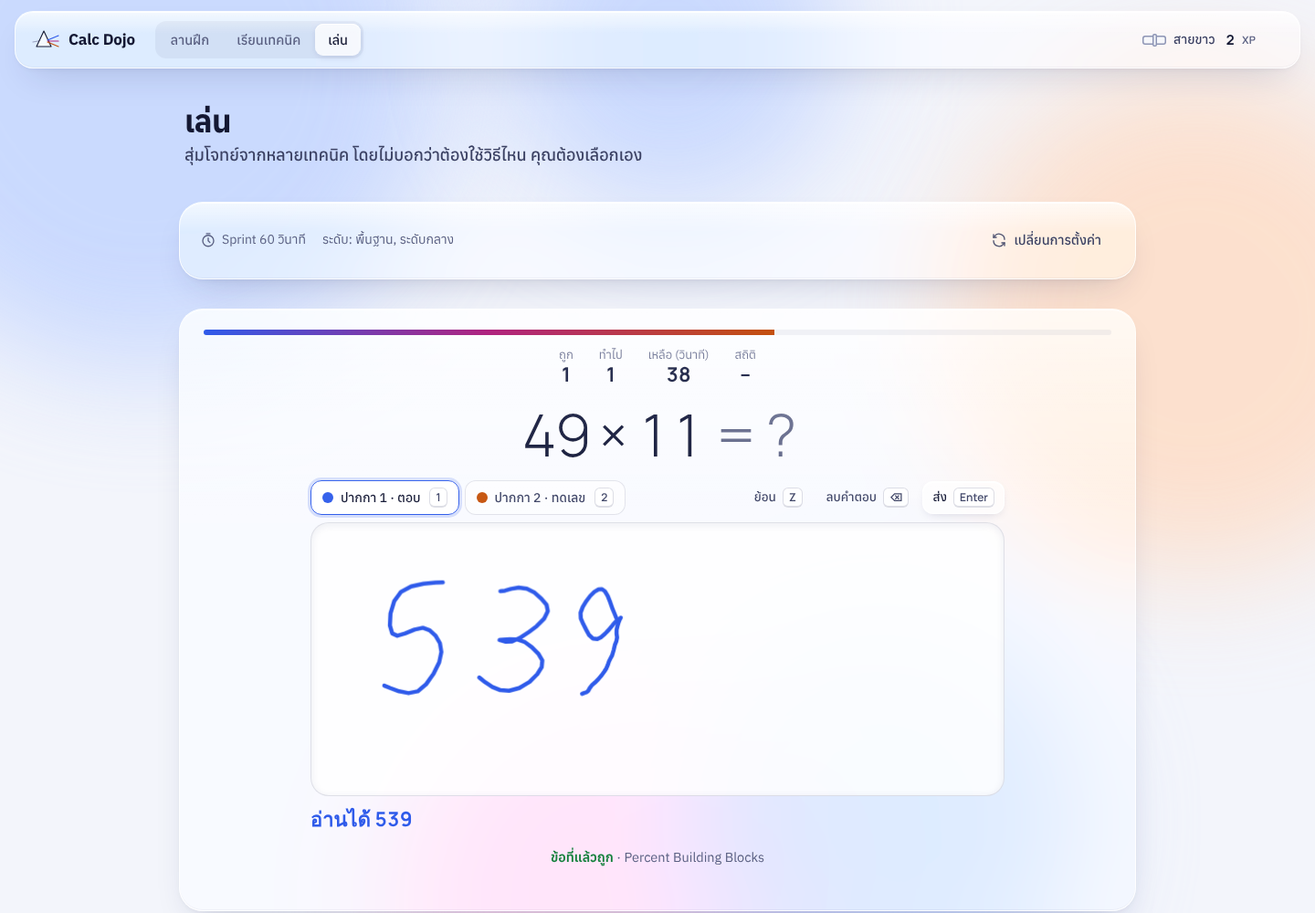
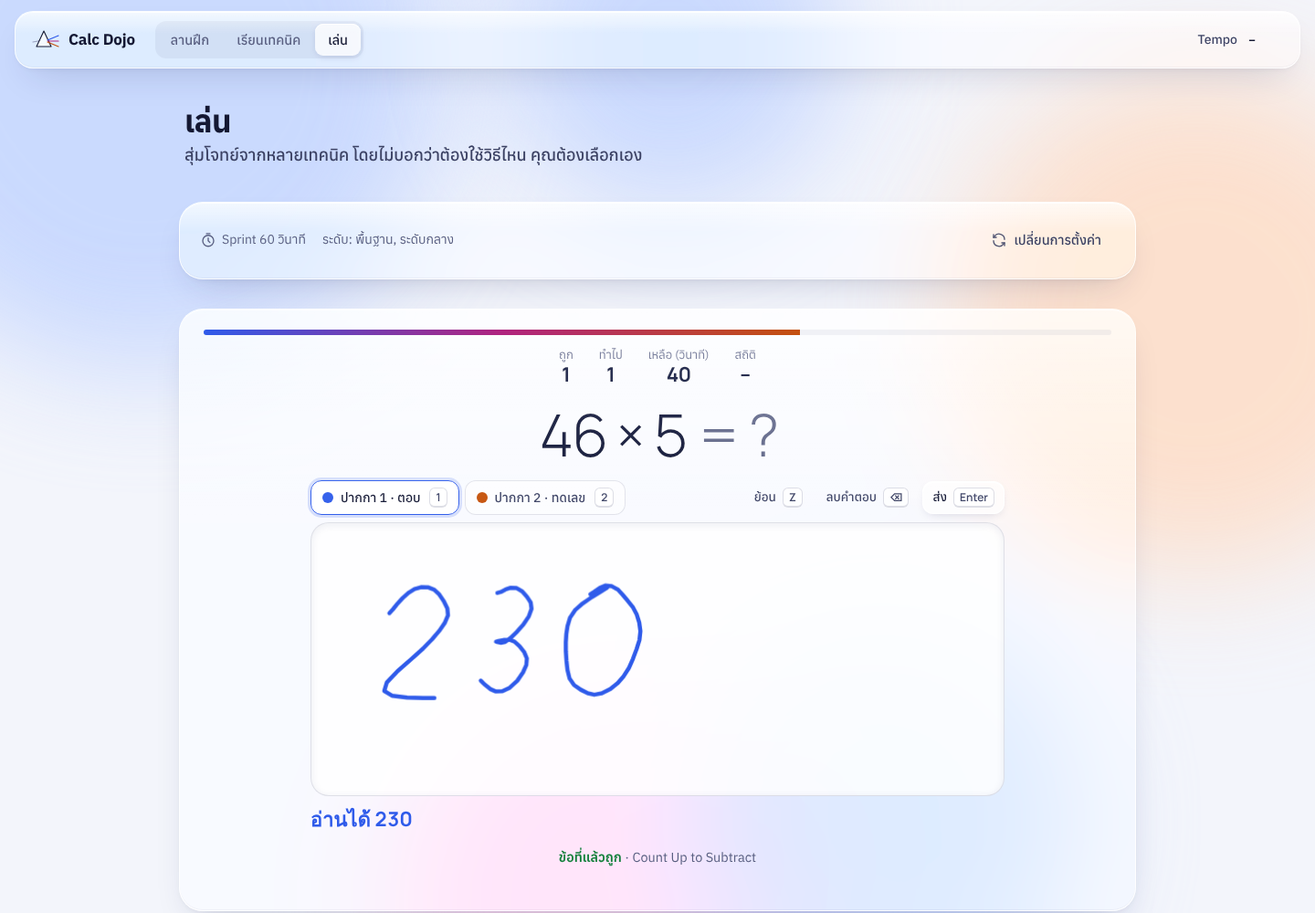
Replace belts/XP/exam with Tempo (speed rating)
Tempo = weighted correct answers per minute in Sprint, averaged over last 5 runs.
Adds play_runs.tempo column; docs updated.

Claude-Session: https://claude.ai/code/session_01S2Gq2VVHPBgjdEWqRrGpj5

diff --git a/js/store.js b/js/store.js
@@ -1,12 +1,12 @@
-/* ============ Calc Dojo store: progress, daily stats, runs, XP, belts, cloud sync, login ============ */
+/* ============ Calc Dojo store: progress, daily stats, runs, Tempo, cloud sync, login ============ */
 /* Needs core.js first (T, byId, MASTER, I, f). Pages may define: window.onData() -> re-render after data changes. */
 
 /* ---------- local storage ---------- */
 const KEY='mm-lab-v1', DKEY='mm-dojo-v1', PKEY='mm-play-v1';
 let S={};      // per technique: {c,w,s,b}
-let D={days:{},runs:[],belt:0}; // days: {'YYYY-MM-DD':{a,c}}, runs: finished plays, belt: highest belt passed (0 = white)
+let D={days:{},runs:[]}; // days: {'YYYY-MM-DD':{a,c}}, runs: finished plays {cid,t,mode,sc,tot,secs,bs,tp}
 try{S=JSON.parse(localStorage.getItem(KEY)||'{}')||{}}catch(e){S={}}
-try{const d=JSON.parse(localStorage.getItem(DKEY)||'null');if(d&&d.days)D={days:d.days,runs:d.runs||[],belt:d.belt|0}}catch(e){}
+try{const d=JSON.parse(localStorage.getItem(DKEY)||'null');if(d&&d.days)D={days:d.days,runs:d.runs||[]}}catch(e){}
 const save=()=>{try{localStorage.setItem(KEY,JSON.stringify(S))}catch(e){}};
 const saveD=()=>{try{localStorage.setItem(DKEY,JSON.stringify(D))}catch(e){}};
 const st=id=>S[id]||(S[id]={c:0,w:0,s:0,b:0});
@@ -25,26 +25,19 @@ const addDays=(d,n)=>{const x=new Date(d.getFullYear(),d.getMonth(),d.getDate())
 const TH_M=['ม.ค.','ก.พ.','มี.ค.','เม.ย.','พ.ค.','มิ.ย.','ก.ค.','ส.ค.','ก.ย.','ต.ค.','พ.ย.','ธ.ค.'];
 const thDate=k=>{const d=fromKey(k);return `${d.getDate()} ${TH_M[d.getMonth()]}`};
 
-/* ---------- XP + belts ---------- */
-/* XP is derived, not stored: each correct answer is worth 1 / 2 / 3 XP by technique level.
-   That means it follows the per-technique counts that already sync. */
-const XPW=[1,2,3];
-const xp=()=>T.reduce((a,t)=>a+st(t.id).c*XPW[t.lv],0);
-/* Belt colours mean belt only. Unlock XP and exam targets are first guesses, not calibrated on data. */
-const BELTS=[
-  {th:'ขาว',  col:'#f6f7fb',edge:'#8d94b4',xp:0},
-  {th:'เหลือง',col:'#e8b923',edge:'#a8830a',xp:50},
-  {th:'เขียว',  col:'#2e9e5b',edge:'#1f7440',xp:150},
-  {th:'น้ำเงิน',col:'#2a5fd6',edge:'#1c43a0',xp:350},
-  {th:'น้ำตาล',col:'#7d4b2a',edge:'#573219',xp:700},
-  {th:'ดำ',    col:'#141833',edge:'#000000',xp:1200}
-];
-const EXAM={need:[0,8,10,12,14,16],acc:.85,secs:60,lv:b=>b<=2?[true,false,false]:b<=4?[true,true,false]:[true,true,true]};
-const belt=()=>D.belt;
-const nextBelt=()=>D.belt<5?D.belt+1:null;
-const examOpen=()=>{const n=nextBelt();return n!==null&&xp()>=BELTS[n].xp};
-function beltProgress(){const x=xp(),n=nextBelt();if(n===null)return{x,n:null,pct:1,from:BELTS[5].xp,to:BELTS[5].xp};
-  const from=BELTS[D.belt].xp,to=BELTS[n].xp;return{x,n,from,to,pct:Math.max(0,Math.min(1,(x-from)/(to-from)))}}
+/* ---------- Tempo ---------- */
+/* Tempo = weighted correct answers per minute in a Sprint. Harder levels count more (1 / 1.5 / 2), so only answering
+   fast AND on harder problems raises it; doing lots of easy problems slowly does not.
+   Your current Tempo is the average of your last 5 Sprints. Weights and tier thresholds are first guesses, not calibrated. */
+const TW=[1,1.5,2];
+const TIERS=[{th:'อุ่นเครื่อง',at:0},{th:'ติดจังหวะ',at:5},{th:'คล่อง',at:8},{th:'ไว',at:12},{th:'เฉียบ',at:16},{th:'ทะลุ',at:20}];
+const tierIdx=v=>{let k=0;TIERS.forEach((t,i)=>{if(v>=t.at)k=i});return k};
+const runTempo=r=>r.tp!=null?r.tp:r.secs>0?+(r.sc/(r.secs/60)).toFixed(2):0;
+const tempos=()=>D.runs.filter(r=>r.mode==='sprint'&&r.tot>0).map(runTempo);
+const avg=a=>a.reduce((x,y)=>x+y,0)/a.length;
+function tempoNow(upTo){const t=tempos();const a=t.slice(Math.max(0,(upTo==null?t.length:upTo)-5),upTo==null?t.length:upTo);return a.length?{v:avg(a),n:a.length}:null}
+function tempoPrev(){const t=tempos();if(t.length<8)return null;const a=t.slice(Math.max(0,t.length-10),t.length-5);return a.length>=3?{v:avg(a),n:a.length}:null}
+const tempoBest=()=>tempos().reduce((m,v)=>Math.max(m,v),0);
 
 /* ---------- recording ---------- */
 const GOAL=30; // answers per day
@@ -53,9 +46,8 @@ function record(id,ok){
   const k=dayKey(),d=D.days[k]||(D.days[k]={a:0,c:0});d.a++;if(ok)d.c++;
   save();saveD();pushOne(id);pushDay(k);dataChanged()}
 function addRun(r){
-  const run={cid:Date.now().toString(36)+Math.random().toString(36).slice(2,7),t:new Date().toISOString(),mode:r.mode,sc:r.score,tot:r.total,secs:r.secs,bs:r.bs,belt:r.belt||0,pass:!!r.passed};
+  const run={cid:Date.now().toString(36)+Math.random().toString(36).slice(2,7),t:new Date().toISOString(),mode:r.mode,sc:r.score,tot:r.total,secs:r.secs,bs:r.bs,tp:r.secs>0?+(r.wc/(r.secs/60)).toFixed(2):0};
   D.runs.push(run);if(D.runs.length>300)D.runs=D.runs.slice(-300);
-  if(run.pass&&run.belt>D.belt)D.belt=run.belt;
   saveD();pushRuns([run]);dataChanged();return run}
 
 /* ---------- derived stats ---------- */
@@ -88,7 +80,7 @@ async function upsert(table,rows,conflict){
   catch(e){setSync('error');return false}}
 const techRow=id=>{const s=st(id);return{user_id:user.id,technique_id:id,correct:s.c,wrong:s.w,streak:s.s,best_streak:s.b,updated_at:new Date().toISOString()}};
 const dayRow=k=>({user_id:user.id,day:k,attempts:D.days[k].a,correct:D.days[k].c,updated_at:new Date().toISOString()});
-const runRow=r=>({user_id:user.id,client_id:r.cid,played_at:r.t,mode:r.mode,score:r.sc,total:r.tot,secs:r.secs|0,best_streak:r.bs|0,belt:r.belt|0,passed:!!r.pass});
+const runRow=r=>({user_id:user.id,client_id:r.cid,played_at:r.t,mode:r.mode,score:r.sc,total:r.tot,secs:r.secs|0,best_streak:r.bs|0,belt:0,passed:false,tempo:r.tp==null?null:r.tp});
 function pushOne(id){later('t'+id,()=>upsert('technique_progress',[techRow(id)],'user_id,technique_id'))}
 function pushDay(k){later('d'+k,()=>D.days[k]&&upsert('daily_stats',[dayRow(k)],'user_id,day'))}
 function pushRuns(rs){if(sb&&user)upsert('play_runs',rs.map(runRow),'user_id,client_id')}
@@ -99,21 +91,20 @@ async function flushAll(){
   const c=await upsert('play_runs',D.runs.map(runRow),'user_id,client_id');
   setSync(a&&b&&c?'ok':'error');return a&&b&&c}
 /* merge rules: per technique and per day the side with more attempts wins its counts (best streak = max);
-   runs are a union by client id; belt = highest passed on either side. */
+   runs are a union by client id. */
 async function pullAndMerge(){
   if(!sb||!user)return;setSync('syncing');
   try{
     const[t,d,r]=await Promise.all([
       sb.from('technique_progress').select('technique_id,correct,wrong,streak,best_streak'),
       sb.from('daily_stats').select('day,attempts,correct'),
-      sb.from('play_runs').select('client_id,played_at,mode,score,total,secs,best_streak,belt,passed').order('played_at',{ascending:false}).limit(300)]);
+      sb.from('play_runs').select('client_id,played_at,mode,score,total,secs,best_streak,tempo').order('played_at',{ascending:false}).limit(300)]);
     if(t.error||d.error||r.error){setSync('error');return}
     (t.data||[]).forEach(x=>{if(!byId[x.technique_id])return;const l=st(x.technique_id);
       if(x.correct+x.wrong>l.c+l.w){l.c=x.correct;l.w=x.wrong;l.s=x.streak}l.b=Math.max(l.b,x.best_streak)});
     (d.data||[]).forEach(x=>{const k=String(x.day).slice(0,10),l=D.days[k];if(!l||x.attempts>l.a)D.days[k]={a:x.attempts,c:x.correct}});
     const have=new Set(D.runs.map(x=>x.cid));
-    (r.data||[]).forEach(x=>{if(!have.has(x.client_id))D.runs.push({cid:x.client_id,t:x.played_at,mode:x.mode,sc:x.score,tot:x.total,secs:x.secs,bs:x.best_streak,belt:x.belt,pass:x.passed});
-      if(x.passed&&x.belt>D.belt)D.belt=x.belt});
+    (r.data||[]).forEach(x=>{if(!have.has(x.client_id))D.runs.push({cid:x.client_id,t:x.played_at,mode:x.mode,sc:x.score,tot:x.total,secs:x.secs,bs:x.best_streak,tp:x.tempo==null?null:+x.tempo})});
     D.runs.sort((a,b)=>a.t<b.t?-1:1);if(D.runs.length>300)D.runs=D.runs.slice(-300);
     save();saveD();dataChanged();
     await flushAll();
@@ -142,7 +133,7 @@ function openDlg(kind){
   const el=document.createElement('div');el.className='scrim';el.id='scrim';
   el.innerHTML=kind==='in'
    ?`<div class="dlg glass" role="dialog" aria-modal="true" aria-labelledby="dlgT"><h2 class="dlg-t" id="dlgT">เข้าสู่ระบบ</h2>
-     <p class="dlg-s">เพื่อให้สถิติและสายตามไปทุกเครื่อง ไม่เข้าสู่ระบบก็ใช้งานได้ตามปกติ</p>
+     <p class="dlg-s">เพื่อให้สถิติและ Tempo ตามไปทุกเครื่อง ไม่เข้าสู่ระบบก็ใช้งานได้ตามปกติ</p>
      <label class="lab" for="aEmail">อีเมล</label><input class="inp" id="aEmail" type="email" autocomplete="email" inputmode="email">
      <label class="lab" for="aPass">รหัสผ่าน (อย่างน้อย 6 ตัว)</label><input class="inp" id="aPass" type="password" autocomplete="current-password">
      <div class="fb" id="aMsg" aria-live="polite"></div>
@@ -185,7 +176,7 @@ function openDlg(kind){
       const ok=await flushAll();
       if(!ok){say('ซิงก์ไม่สำเร็จ จึงยังไม่ออกจากระบบ เพื่อกันข้อมูลหาย ลองใหม่อีกครั้ง','bad');busy(false);return}
       try{await sb.auth.signOut()}catch(e){}
-      S={};D={days:{},runs:[],belt:0};save();saveD();user=null;closeDlg();renderAuth();dataChanged()};
+      S={};D={days:{},runs:[]};save();saveD();user=null;closeDlg();renderAuth();dataChanged()};
     aSync.focus();
   }
 }

diff --git a/index.html b/index.html
@@ -42,36 +42,39 @@ function readDay(k){
   const x=D.days[k];
   heatRead.innerHTML=x&&x.a?`<b>${thDate(k)}</b> · เล่น <b>${x.a}</b> ข้อ · ถูก <b>${pct(x)}%</b>`:`<b>${thDate(k)}</b> · ไม่ได้เล่น`}
 
+function lineHTML(pts,lab,aria,fmt){
+  const have=pts.filter(v=>v!==null);
+  const W=Math.max(300,Math.min(760,document.documentElement.clientWidth-130)),H=84,pad=10,n=pts.length;
+  const lo=Math.min(...have)-(Math.max(...have)-Math.min(...have)||1)*.25,hi=Math.max(...have)+(Math.max(...have)-Math.min(...have)||1)*.25;
+  const X=i=>pad+i*(W-2*pad)/Math.max(1,n-1),Y=v=>H-pad-(v-lo)/(hi-lo||1)*(H-2*pad);
+  let path='',dots='';pts.forEach((v,i)=>{if(v===null)return;path+=(path?'L':'M')+X(i).toFixed(1)+' '+Y(v).toFixed(1);dots+=`<circle cx="${X(i).toFixed(1)}" cy="${Y(v).toFixed(1)}" r="3.4" fill="#fff" stroke="#0b7f6a" stroke-width="2"/>`});
+  return `<div class="trend"><svg viewBox="0 0 ${W} ${H}" role="img" aria-label="${aria}: ${have.map(fmt).join(', ')}"><path d="${path}" fill="none" stroke="#0b7f6a" stroke-width="2.4" stroke-linejoin="round" stroke-linecap="round"/>${dots}</svg><p>${lab}</p></div>`}
 function trendHTML(){
+  const tp=tempos().slice(-20);
+  const t1=tp.length>=3?lineHTML(tp,`Tempo ของ Sprint ล่าสุด ${tp.length} รอบ จาก ${tp[0].toFixed(1)} เป็น ${tp[tp.length-1].toFixed(1)}`,'Tempo รายรอบ',v=>v.toFixed(1)):`<div class="trend"><p>กราฟ Tempo จะขึ้นเมื่อเล่น Sprint ครบ 3 รอบ</p></div>`;
   const pts=[];for(let i=7;i>=0;i--){const w=winAcc(i*7+6,i*7);pts.push(w.a>=10?w.pct:null)}
   const have=pts.filter(v=>v!==null);
-  if(have.length<2)return `<div class="trend"><p>เส้นพัฒนาการรายสัปดาห์จะขึ้นเมื่อมีอย่างน้อย 2 สัปดาห์ที่ทำครบ 10 ข้อขึ้นไป</p></div>`;
-  const lo=Math.max(0,Math.min(...have)-8),hi=Math.min(100,Math.max(...have)+8),W=Math.max(300,Math.min(760,document.documentElement.clientWidth-130)),H=84,pad=10;
-  const X=i=>pad+i*(W-2*pad)/7,Y=v=>H-pad-(v-lo)/(hi-lo||1)*(H-2*pad);
-  let path='',dots='';pts.forEach((v,i)=>{if(v===null)return;path+=(path?'L':'M')+X(i).toFixed(1)+' '+Y(v).toFixed(1);dots+=`<circle cx="${X(i).toFixed(1)}" cy="${Y(v).toFixed(1)}" r="3.4" fill="#fff" stroke="#0b7f6a" stroke-width="2"/>`});
-  const last=have[have.length-1],first=have[0];
-  return `<div class="trend"><svg viewBox="0 0 ${W} ${H}" role="img" aria-label="ความแม่นรายสัปดาห์ 8 สัปดาห์ล่าสุด: ${have.join('%, ')}%"><path d="${path}" fill="none" stroke="#0b7f6a" stroke-width="2.4" stroke-linejoin="round" stroke-linecap="round"/>${dots}</svg>
-   <p>ความแม่นรายสัปดาห์ (เฉพาะสัปดาห์ที่ทำ ≥10 ข้อ) จาก ${first}% เป็น ${last}%</p></div>`}
+  const t2=have.length>=2?lineHTML(pts,`ความแม่นรายสัปดาห์ (เฉพาะสัปดาห์ที่ทำ ≥10 ข้อ) จาก ${have[0]}% เป็น ${have[have.length-1]}%`,'ความแม่นรายสัปดาห์',v=>v+'%'):`<div class="trend"><p>เส้นความแม่นรายสัปดาห์จะขึ้นเมื่อมีอย่างน้อย 2 สัปดาห์ที่ทำครบ 10 ข้อขึ้นไป</p></div>`;
+  return t1+t2}
 
 function render(){
-  const b=belt(),nb=nextBelt(),bp=beltProgress(),t=today(),ratio=Math.min(1,t.a/GOAL),C=2*Math.PI*56;
+  const t=today(),ratio=Math.min(1,t.a/GOAL),C=2*Math.PI*56;
+  const tn=tempoNow(),tprev=tempoPrev(),dl=tn&&tprev?tn.v-tprev.v:null,ti=tn?tierIdx(tn.v):0,nt=TIERS[ti+1]||null,tp=nt&&tn?Math.max(0,Math.min(1,(tn.v-TIERS[ti].at)/(nt.at-TIERS[ti].at))):0;
   const tot=totals(),w1=winAcc(6,0),w0=winAcc(13,7),sp=sprintRuns();
   const cmp=w1.a>=10&&w0.a>=10?w1.pct-w0.pct:null;
-  const need=nb!==null?BELTS[nb].xp-bp.x:0;
   main.innerHTML=`
   <section class="hero glass" aria-labelledby="hb">
     <div>
-      <p class="eyebrow">สายของคุณ</p>
-      <h1 id="hb">สาย${BELTS[b].th}</h1>
-      <span class="band" style="--bc:${BELTS[b].col};--be:${BELTS[b].edge}" aria-hidden="true"></span>
-      ${nb!==null?`<div class="xp"><p class="xp-t"><span>${bp.x>=bp.to?`XP <b>${bp.x}</b> · ครบแล้ว พร้อมสอบ`:`XP <b>${bp.x}</b> / ${bp.to}`}</span><span>สายถัดไป: ${BELTS[nb].th}</span></p><div class="xp-bar" style="--bc:${BELTS[nb].col};--be:${BELTS[nb].edge};--w:${Math.round(bp.pct*100)}%"><i></i></div></div>`
-        :`<p class="xp-t"><span>ถึงสายดำแล้ว · XP <b>${bp.x}</b></span></p>`}
+      <p class="eyebrow">${tn?`Tempo ตอนนี้ · เฉลี่ย ${tn.n} Sprint ล่าสุด`:'Tempo'}</p>
+      <h1 id="hb">${tn?`<span class="n tempo">${tn.v.toFixed(1)}</span><small class="unit">ข้อ/นาที</small><span class="tier">${TIERS[ti].th}</span>`:'ยังไม่มี Tempo'}</h1>
+      ${tn?`<p class="delta ${dl===null?'':dl>=0?'up':'down'}">${dl===null?`สูงสุดที่เคยทำได้ ${tempoBest().toFixed(1)}`:`${dl>=0?'▲ +':'▼ −'}${Math.abs(dl).toFixed(1)} จาก 5 รอบก่อนหน้า · สูงสุด ${tempoBest().toFixed(1)}`}</p>
+      ${nt?`<div class="xp"><p class="xp-t"><span>ระดับ ${TIERS[ti].th}</span><span>ถัดไป: ${nt.th} ที่ ${nt.at}</span></p><div class="xp-bar" style="--w:${Math.round(tp*100)}%"><i></i></div></div>`:''}`
+      :'<p class="delta">เล่น Sprint 60 วินาทีรอบแรกเพื่อวัด Tempo ของคุณ</p>'}
       <div class="cta">
         <a class="btn pri go" href="play.html#sprint">${I('play')}เริ่ม Sprint 60 วินาที</a>
-        ${nb===null?'':examOpen()?`<a class="btn go" href="play.html#exam">${I('belt')}สอบสาย${BELTS[nb].th}</a>`:`<span class="btn go locked" aria-disabled="true">${I('lock')}สอบสาย${BELTS[nb].th} · อีก ${need} XP</span>`}
         <a class="btn" href="play.html#free">${I('free')}ไม่จับเวลา</a>
       </div>
-      ${nb===null?'':`<p class="cta-note">สอบสาย${BELTS[nb].th}: Sprint 60 วินาที ถูกอย่างน้อย ${EXAM.need[nb]} ข้อและแม่น ≥${Math.round(EXAM.acc*100)}% · XP ได้จากข้อที่ตอบถูก (พื้นฐาน 1 · กลาง 2 · สูง 3)</p>`}
+      <p class="cta-note">Tempo = ข้อที่ตอบถูกต่อนาทีใน Sprint ถ่วงตามระดับโจทย์ (พื้นฐาน 1 · กลาง 1.5 · สูง 2) เฉลี่ย 5 รอบล่าสุด ตอบเยอะแต่ช้า หรือเลือกแต่ข้อง่าย จะไม่ทำให้ Tempo ขึ้น</p>
     </div>
     <div class="today">
       <div class="today-l">
@@ -91,7 +94,7 @@ function render(){
   <section class="panel glass" aria-labelledby="hs">
     <div class="panel-h"><h2 id="hs">สถิติของคุณ</h2></div>
     <dl class="facts">
-      <div><dt>Sprint สูงสุด</dt><dd>${sp.length?bestSprint():'–'} <small>${sp.length?`ข้อ · ${sp.length} รอบ`:''}</small></dd></div>
+      <div><dt>Tempo สูงสุด</dt><dd>${sp.length?tempoBest().toFixed(1):'–'} <small>${sp.length?`Sprint สูงสุด ${bestSprint()} ข้อ · ${sp.length} รอบ`:''}</small></dd></div>
       <div><dt>ถูกติดกันสูงสุด</dt><dd>${D.runs.length?bestRunStreak():'–'} <small>${D.runs.length?'ข้อในรอบเดียว':''}</small></dd></div>
       <div><dt>ตอบทั้งหมด</dt><dd>${tot.a} <small>${tot.a?`ข้อ · ถูก ${Math.round(100*tot.c/tot.a)}%`:''}</small></dd></div>
       <div><dt>แม่น 7 วันล่าสุด</dt><dd>${w1.a?w1.pct+'%':'–'} ${cmp===null?'':`<small class="${cmp>=0?'up':'down'}">${cmp>=0?'+':'−'}${Math.abs(cmp)} จุด จากสัปดาห์ก่อน</small>`}</dd></div>

diff --git a/css/app.css b/css/app.css
@@ -222,20 +222,15 @@ i.c1{color:var(--c1)} i.c2{color:var(--c2)} i.c3{color:var(--c3)}
 @media (prefers-reduced-motion:reduce){*,*::before,*::after{animation-duration:.01ms!important;animation-delay:0s!important;transition-duration:.01ms!important}}
 
 /* ======== Calc Dojo ======== */
-.bw{display:inline-block;width:26px;height:10px;border-radius:3px;background:var(--bc);box-shadow:inset 0 0 0 1.5px var(--be);position:relative;flex:none}
-.bw::after{content:"";position:absolute;left:50%;top:-2px;bottom:-2px;width:5px;margin-left:-2.5px;border-radius:2px;background:var(--bc);box-shadow:inset 0 0 0 1.5px var(--be)}
 .dojo{max-width:1080px;margin:0 auto;padding:16px;display:grid;gap:16px}
 .hero{border-radius:var(--r-xl);padding:26px 28px 26px;display:grid;grid-template-columns:minmax(0,1.5fr) minmax(0,1fr);gap:28px;align-items:center}
 .eyebrow{font-size:13.5px;font-weight:600;color:var(--mute);margin:0 0 6px}
 .hero h1{font-size:40px;display:flex;align-items:center;gap:14px;flex-wrap:wrap}
-.band{display:block;margin-bottom:30px;height:18px;border-radius:5px;background:var(--bc);box-shadow:inset 0 0 0 2px var(--be);position:relative;margin-top:16px;max-width:420px}
-.band::before{content:"";position:absolute;top:100%;left:calc(50% - 9px);width:11px;height:26px;border-radius:0 0 3px 3px;background:var(--bc);box-shadow:inset 0 0 0 2px var(--be);transform:rotate(14deg);transform-origin:top center;margin-top:5px;z-index:-1}
-.band::after{content:"";position:absolute;left:50%;top:-7px;bottom:-7px;width:26px;margin-left:-13px;border-radius:6px;background:var(--bc);box-shadow:inset 0 0 0 2px var(--be)}
 .xp{max-width:420px}
 .xp-t{display:flex;justify-content:space-between;gap:12px;font-size:14px;color:var(--ink-2);margin:0 0 6px}
 .xp-t b{font-family:var(--num);font-variant-numeric:tabular-nums;color:var(--ink)}
 .xp-bar{height:8px;border-radius:8px;background:rgba(28,36,84,.08);overflow:hidden}
-.xp-bar i{display:block;height:100%;width:var(--w,0%);background:var(--bc);box-shadow:inset 0 0 0 1px var(--be);border-radius:8px;transition:width .8s var(--ease)}
+.xp-bar i{display:block;height:100%;width:var(--w,0%);background:var(--l0);border-radius:8px;transition:width .8s var(--ease)}
 .cta{display:flex;flex-wrap:wrap;gap:10px;margin-top:22px;align-items:center}
 .btn.go{font-size:19px;font-weight:600;padding:14px 26px;border-radius:16px;text-decoration:none}
 .btn{text-decoration:none}
@@ -298,7 +293,7 @@ i.c1{color:var(--c1)} i.c2{color:var(--c2)} i.c3{color:var(--c3)}
   .hero h1{font-size:30px}
   .facts{grid-template-columns:1fr 1fr;row-gap:14px}
   .facts>div:nth-child(2n){border-right:0;margin-right:0}
-  .beltchip small,.beltchip span:not(.bw){display:none}
+  .beltchip small,.beltchip span{display:none}
   .dojo{padding:10px 8px}
   .btn.go{width:100%;justify-content:center}
 }
@@ -321,3 +316,10 @@ i.c1{color:var(--c1)} i.c2{color:var(--c2)} i.c3{color:var(--c3)}
 .pad-read[data-s="bad"] .pad-msg{color:var(--bad);font-weight:600}
 .sel{font:inherit;font-size:14px;padding:5px 8px;border-radius:9px;border:1px solid rgba(28,36,84,.14);background:rgba(255,255,255,.8);color:var(--ink)}
 .pen-idle{font-size:14px;color:var(--ink-2);display:inline-flex;align-items:center;gap:8px;margin-left:6px}
+
+.hero h1 .tempo{font-size:72px;font-weight:300;letter-spacing:-2.5px;line-height:1}
+.hero h1 .unit{font-family:var(--ui);font-size:16px;font-weight:500;color:var(--mute);letter-spacing:0}
+.hero h1 .tier{font-size:14px;font-weight:600;color:var(--l0);border:1px solid color-mix(in srgb,var(--l0) 35%,transparent);background:color-mix(in srgb,var(--l0) 9%,rgba(255,255,255,.7));padding:3px 12px;border-radius:999px;letter-spacing:0}
+.delta{margin:6px 0 14px;font-size:15px;color:var(--ink-2)}
+.delta.up{color:var(--ok);font-weight:600}.delta.down{color:var(--bad);font-weight:600}
+@media (max-width:820px){.hero h1 .tempo{font-size:54px}}

diff --git a/js/shell.js b/js/shell.js
@@ -1,4 +1,4 @@
-/* ============ Calc Dojo shell: light field, icon sprite, header, belt chip ============ */
+/* ============ Calc Dojo shell: light field, icon sprite, header, tempo chip ============ */
 const NAV=[['home','index.html','ลานฝึก'],['learn','learn.html','เรียนเทคนิค'],['play','play.html','เล่น']];
 const SPRITE=`<svg width="0" height="0" style="position:absolute" aria-hidden="true">
   <symbol id="i-refresh" viewBox="0 0 24 24"><path d="M20 11a8 8 0 0 0-14.6-4.5L4 8"/><path d="M4 4v4h4"/><path d="M4 13a8 8 0 0 0 14.6 4.5L20 16"/><path d="M20 20v-4h-4"/></symbol>
@@ -17,12 +17,9 @@ const SPRITE=`<svg width="0" height="0" style="position:absolute" aria-hidden="t
   <symbol id="i-lock" viewBox="0 0 24 24"><rect x="5" y="11" width="14" height="9" rx="2"/><path d="M8 11V8a4 4 0 0 1 8 0v3"/></symbol>
   <symbol id="i-flame" viewBox="0 0 24 24"><path d="M12 3c1 3.5 5 5.5 5 10a5 5 0 0 1-10 0c0-2 1-3.2 2-4.2.2 1.2.8 2 1.6 2.4C10.2 8 10.6 5.4 12 3Z"/></symbol>
   <symbol id="i-pen" viewBox="0 0 24 24"><path d="m4 20 1-4L16.5 4.5a2 2 0 0 1 3 3L8 19l-4 1Z"/><path d="m14 7 3 3"/></symbol>
-  <symbol id="i-belt" viewBox="0 0 24 24"><path d="M3 9h18v6H3z"/><path d="M10 9v6M14 9v6"/><path d="m8 15-2 5M16 15l2 5"/></symbol>
 </svg>`;
 const MARK=`<svg viewBox="0 0 60 52" aria-hidden="true"><path d="M2 30 L19 27" stroke="#9aa1bf" stroke-width="2.4" stroke-linecap="round"/><path d="M26 6 L42 40 L10 40 Z" fill="rgba(255,255,255,.7)" stroke="#141833" stroke-width="2.2" stroke-linejoin="round"/><path d="M34 26 L58 16" stroke="#2f5bea" stroke-width="2.4" stroke-linecap="round"/><path d="M35 28 L58 28" stroke="#b0247f" stroke-width="2.4" stroke-linecap="round"/><path d="M34 30 L58 40" stroke="#c4510f" stroke-width="2.4" stroke-linecap="round"/></svg>`;
 
-/* a small belt swatch: coloured band with a knot */
-const beltSwatch=(b,cls='bw')=>`<span class="${cls}" style="--bc:${BELTS[b].col};--be:${BELTS[b].edge}" aria-hidden="true"></span>`;
 
 function mountShell(active){
   document.body.insertAdjacentHTML('afterbegin',
@@ -30,10 +27,10 @@ function mountShell(active){
     <header class="top glass">
       <a class="brand" href="index.html" aria-label="Calc Dojo หน้าหลัก">${MARK}Calc Dojo</a>
       <nav class="tabs" aria-label="เมนู">${NAV.map(([id,href,th])=>`<a href="${href}" class="${id===active?'on':''}" ${id===active?'aria-current="page"':''}>${th}</a>`).join('')}</nav>
-      <a class="beltchip" id="beltChip" href="index.html" aria-label="สายและ XP"></a>
+      <a class="beltchip" id="beltChip" href="index.html" aria-label="Tempo"></a>
       <div class="authbox" id="authBox"></div>
     </header>`);
   updateChip()}
 function updateChip(){
   const c=document.getElementById('beltChip');if(!c)return;
-  c.innerHTML=`${beltSwatch(belt())}<span>สาย${BELTS[belt()].th}</span><b class="n">${xp()}</b><small>XP</small>`}
+  const t=tempoNow();c.innerHTML=`<span>Tempo</span><b class="n">${t?t.v.toFixed(1):'–'}</b>${t?'<small>ข้อ/นาที</small>':''}`}

diff --git a/learn.html b/learn.html
@@ -43,7 +43,7 @@ function renderLearn(){
     <p class="idea">${t.idea}</p>
     <p class="meta"><span class="lv"><i class="dot"></i>${l.th}</span><span>ใช้เมื่อ: ${t.use}</span></p>
   </section>
-  ${fresh?`<div class="note glass" id="note">${I('info')}<div style="flex:1"><b>วิธีใช้:</b> ดูตัวอย่างทางซ้ายทีละขั้น แล้วลองทำโจทย์ทางขวา ทำถูกติดกัน ${MASTER} ข้อโดยไม่ใช้คำใบ้ถือว่าผ่านเทคนิคนั้น พอคล่องแล้วไปที่หน้า “เล่น” เพื่อจับเวลาและไต่สาย</div><button class="btn ghost" id="noteX">เข้าใจแล้ว</button></div>`:''}
+  ${fresh?`<div class="note glass" id="note">${I('info')}<div style="flex:1"><b>วิธีใช้:</b> ดูตัวอย่างทางซ้ายทีละขั้น แล้วลองทำโจทย์ทางขวา ทำถูกติดกัน ${MASTER} ข้อโดยไม่ใช้คำใบ้ถือว่าผ่านเทคนิคนั้น พอคล่องแล้วไปที่หน้า “เล่น” เพื่อจับเวลาและดัน Tempo ให้สูงขึ้น</div><button class="btn ghost" id="noteX">เข้าใจแล้ว</button></div>`:''}
   <div id="recBox"></div>
   <div class="panes">
     <section class="pane glass" aria-labelledby="exH">

diff --git a/PRODUCT.md b/PRODUCT.md
@@ -19,7 +19,7 @@ Every problem is generated together with its own worked solution in that techniq
 - 18 techniques in three levels (Basic, Intermediate, Advanced); each has an explanation, "when to use", a step-by-step worked example, and a practice loop with step-by-step hints.
 - Mastery: 5 correct in a row without hints marks a technique as passed.
 - Mixed test: random problems across chosen levels, Sprint (60 s) or untimed with solutions; end summary lists techniques to review.
-- Game: Sprint 60 s, untimed with solutions, and belt exams. XP is derived from correct answers (1/2/3 by level). Six belts (white to black); each belt has an exam (Sprint with a target score and accuracy). Targets and XP thresholds are first guesses, not calibrated.
+- Game: Sprint 60 s and untimed with solutions. Rating = Tempo: weighted correct answers per minute in Sprint (weights 1/1.5/2 by level), averaged over the last 5 sprints and compared with the 5 before. Six tiers (warm-up, 5, 8, 12, 16, 20). Weights and tier thresholds are first guesses, not calibrated.
 - Competition is only against yourself: personal bests, daily goal (30 answers), day streak, GitHub-style heatmap (volume or accuracy), weekly accuracy trend. No leaderboard or duels.
 - Pen mode (Play page): pen 1 writes the answer, read in the browser as a number (digits, decimal point, minus); pen 2 is scratch only. Low-confidence reads show "อ่านไม่ออก" and are not counted wrong. Real-handwriting accuracy is unmeasured until tested on the user's iPad.
 - Data lives in localStorage and syncs to Supabase when signed in (technique_progress, daily_stats, play_runs; own-row RLS).
@@ -27,7 +27,7 @@ Every problem is generated together with its own worked solution in that techniq
 - UI language: Thai, with technique names in English.
 
 ## Brand Commitments
-- Visual direction pinned by the user: "premium liquid glass, light". Dojo direction chosen by the user: belts and training hall, calm and disciplined rather than arcade.
+- Visual direction pinned by the user: "premium liquid glass, light". Dojo direction chosen by the user: training hall, calm and disciplined rather than arcade; the progress gimmick is Tempo (speed rating), belts were dropped.
 - No generic AI-slop look.
 
 ## Evidence on Hand

diff --git a/README.md b/README.md
@@ -4,8 +4,8 @@
 
 - 18 techniques in 3 levels (Basic / Intermediate / Advanced), each with an explanation, a step-by-step worked example and visuals (number line, area model, "prism split")
 - Random practice problems with step-by-step hints; 5 correct in a row = technique passed
-- Home page = start the game: belt + XP, daily goal and day streak, GitHub-style heatmap (volume or accuracy), personal bests, weekly accuracy trend
-- Play page: Sprint 60 s, untimed with solutions, or a belt exam (6 belts, white to black); each run is saved and compared with your best
+- Home page = start the game: Tempo rating (weighted correct answers per minute), daily goal and day streak, GitHub-style heatmap (volume or accuracy), personal bests, weekly accuracy trend
+- Play page: Sprint 60 s, or untimed with solutions; each run is saved and compared with your best
 - Learn page holds the 18 techniques
 - Pen mode in the Play page: two inks (pen 1 = answer, read as a number; pen 2 = scratch, never read). iPad: tap a pen; keyboard: keys 1 / 2. Handwriting is read by a small CNN that runs in the browser (`js/recog.js`, weights in `js/digit-model.js`, about 37 KB); when it is not sure it says so instead of marking the answer wrong. Training scripts are in `tools/` (numpy only, MNIST plus synthetic pen strokes).
 - "Recommended next" strip: points to the technique you are weakest at (under 70% after 3+ attempts), else the next one not yet passed

diff --git a/.impeccable/surfaces/home.md b/.impeccable/surfaces/home.md
@@ -1,7 +1,7 @@
 # Surface: home (index.html) , Calc Dojo
-THESIS: a quiet training hall. One belt, one big start button, your own record.
-OWN-WORLD: dojo cues only through the belt (colour = belt, never decoration), the day streak and the daily-goal ring. No mascots, no confetti, no neon.
-STORY: who am I now (belt, XP) -> start -> how have I been doing (heatmap, bests, weekly trend).
-FIRST VIEWPORT: belt name + belt graphic + XP bar + primary Start; today ring and streak beside it.
+THESIS: a quiet training hall. One Tempo number, one big start button, your own record.
+OWN-WORLD: dojo cues only through Tempo and its tier (never decoration), the day streak and the daily-goal ring. No mascots, no confetti, no neon.
+STORY: who am I now (Tempo, tier, change vs previous 5 sprints) -> start -> how have I been doing (heatmap, bests, weekly trend).
+FIRST VIEWPORT: Tempo number + tier + progress to next tier + primary Start; today ring and streak beside it.
 FORM: light liquid glass (Prism system). Heatmap single teal ramp; its meaning switches between volume and accuracy via a labelled toggle.
 FINISH: tabular numerals, honest empty states, no invented stats, reduced-motion respected.
